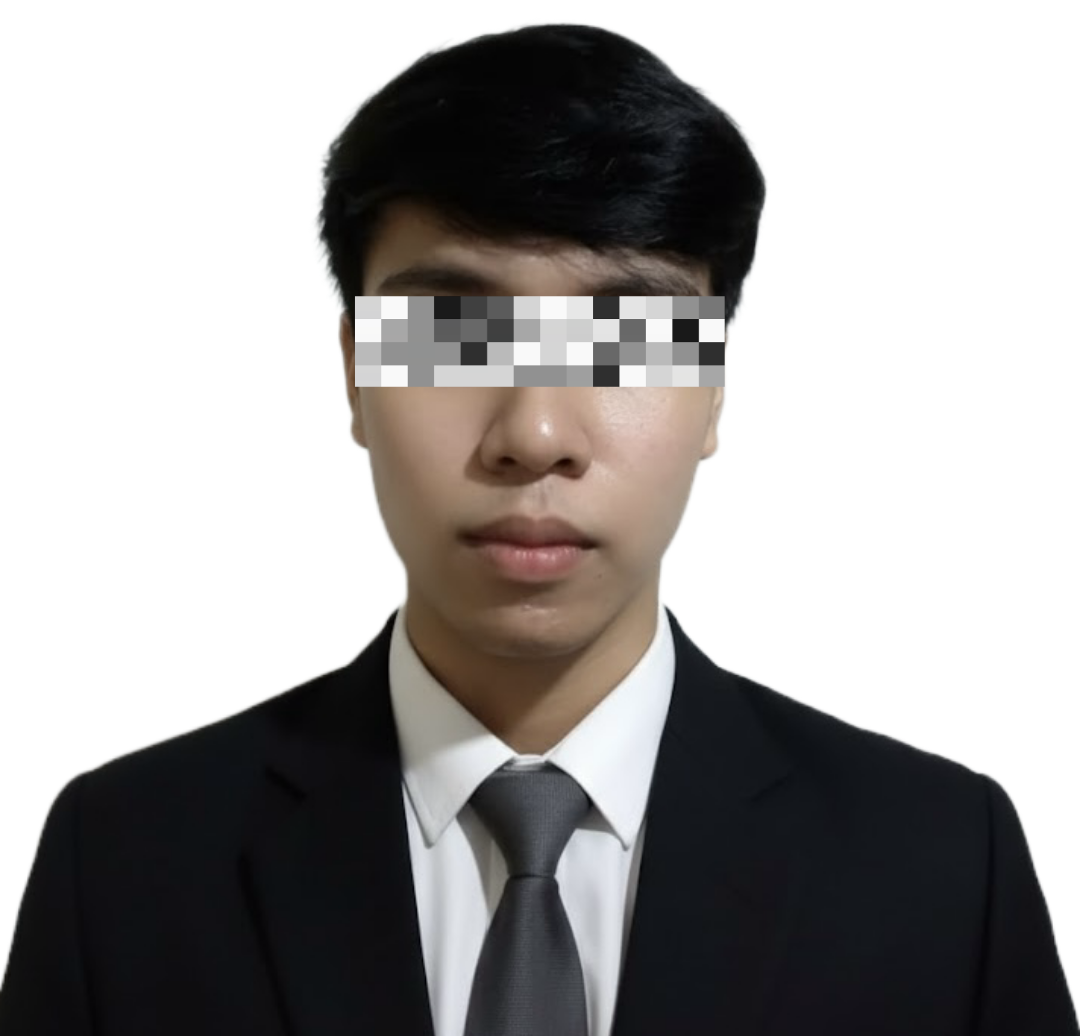
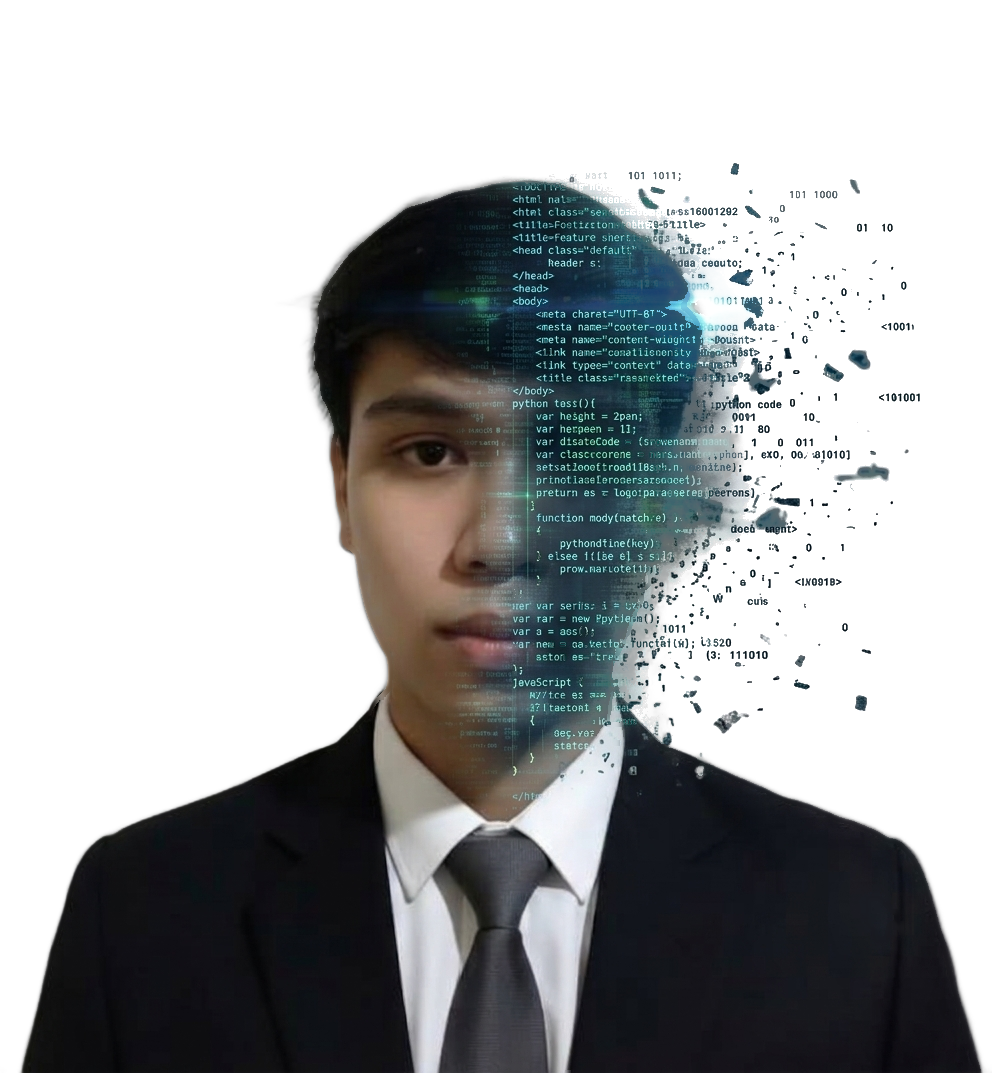
update

diff --git a/index.html b/index.html
@@ -115,13 +115,13 @@
           <div class="photo__stack" id="photoStack">
             <img
               class="photo__base"
-              src="images/hero.png"
+              src="images/me6.png"
               alt="Portrait of Emmanuelle Alega"
               draggable="false"
             />
             <img
               class="photo__lit"
-              src="images/hero.png"
+              src="images/me6.png"
               alt=""
               aria-hidden="true"
               draggable="false"

diff --git a/css/style.css b/css/style.css
@@ -300,8 +300,8 @@ img {
   overflow: hidden;
   background: radial-gradient(
     ellipse at 50% 30%,
-    #3a3f48 0%,
-    #262a30 45%,
+    #2e3137 0%,
+    #1f2227 45%,
     #14161a 85%
   );
 }
